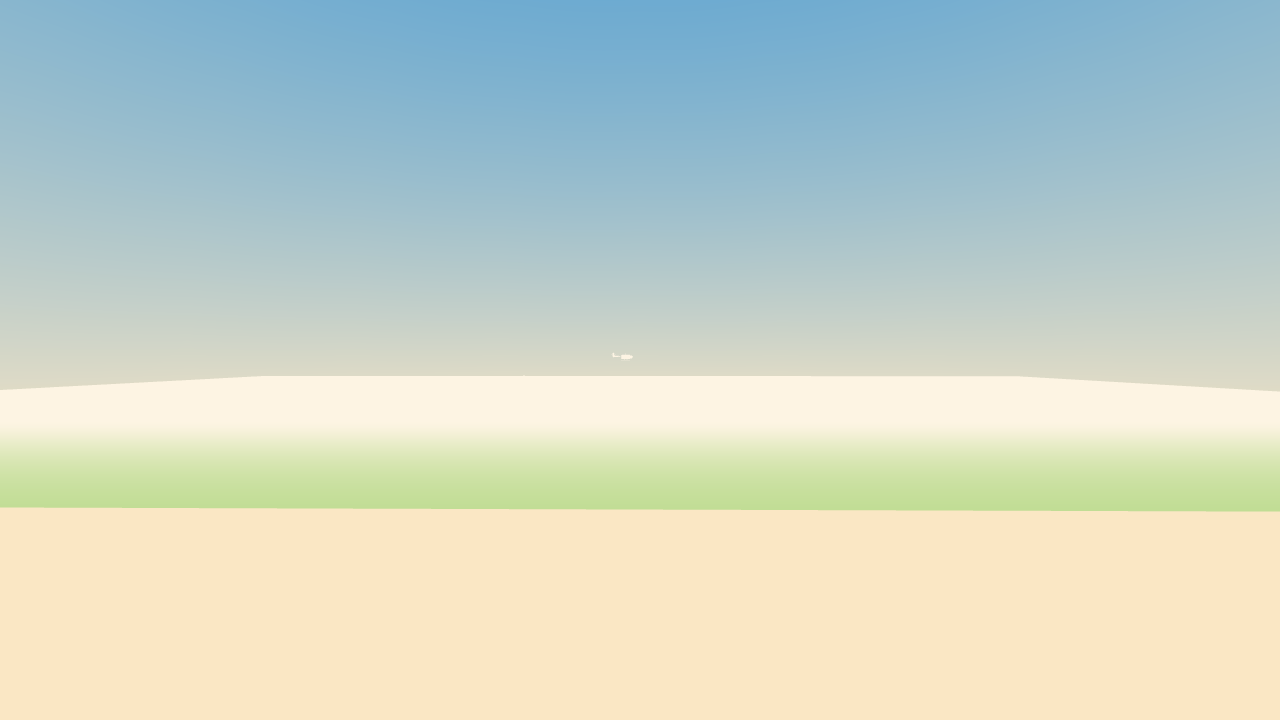
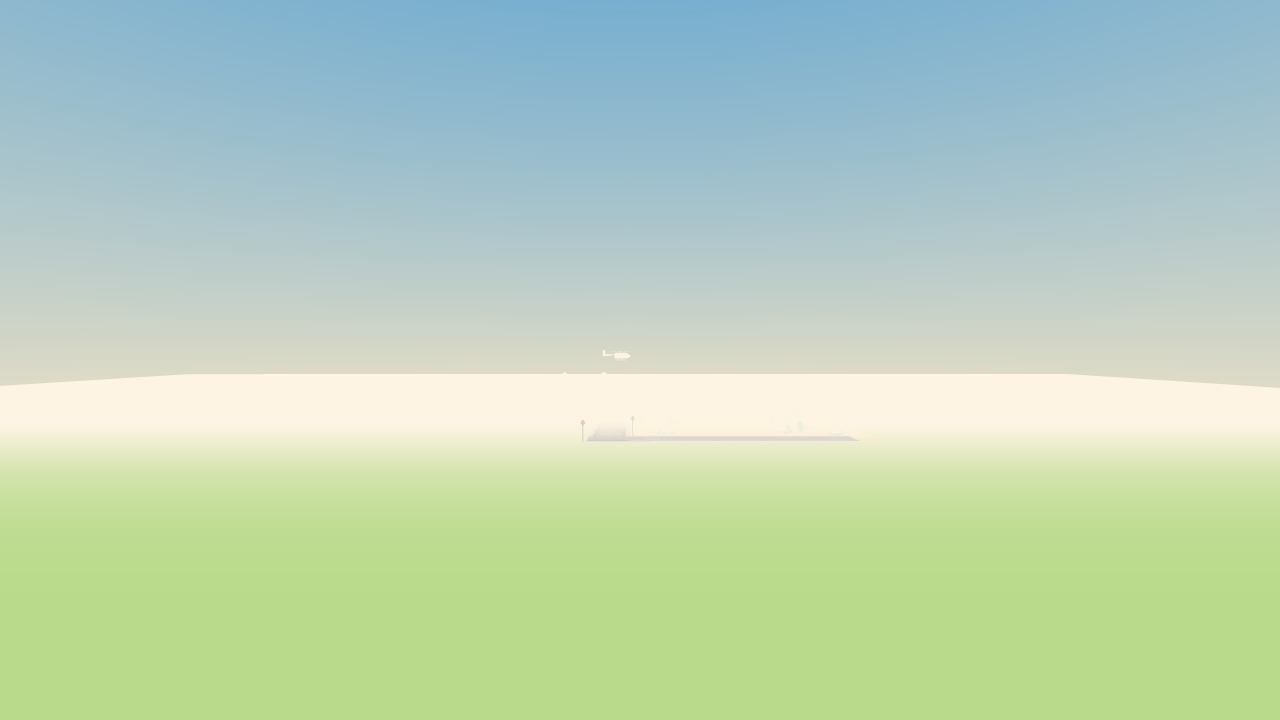
Multiple trains: 4 baked single-mesh trains on nearby rail corridors
Trains distribute over the nearest vertical/horizontal rail lines (and one
line out), each with its own shuttle phase and livery band. Each train is
merged into one mesh at boot (4 draw calls total).

Changed region(s): [[0.0, 0.7028, 1.0, 1.0], [0.7812, 0.5194, 1.0, 0.55], [0.0, 0.5194, 0.2188, 0.55]]

diff --git a/src/games/city/train.ts b/src/games/city/train.ts
@@ -1,39 +1,86 @@
-// The city train: shuttles back and forth along the nearest rail line,
-// driven purely by (time, player position) so it streams with the chunks.
+// The city trains: several trains shuttle along the rail corridors that cross
+// the world, driven purely by (time, player position) so they stream with the
+// chunks. Each train is baked into a single mesh (one draw call per train).
 import * as THREE from 'three';
+import { Baked } from '../../engine/baked.js';
 import { makeTrainCar, makeTrainLoco } from '../../kit/index.js';
 
 const SPEED = 0.15;  // shuttle angular speed (rad/s)
 const AMP = 40;      // shuttle amplitude around the player, in metres
+const BANDS = [0x63b0a8, 0xe25c5c, 0x7fb2d9, 0xf6c952];
 
-export class Train {
-  private group = new THREE.Group();
-  private dirLast = 1;
+function bakeGroup(baked: Baked, g: THREE.Object3D): void {
+  g.updateMatrixWorld(true);
+  g.traverse(node => {
+    if (!(node instanceof THREE.Mesh) || !node.geometry) return;
+    let geo = node.geometry.index ? node.geometry.toNonIndexed() : node.geometry.clone();
+    for (const name of Object.keys(geo.attributes)) {
+      if (name !== 'position' && name !== 'normal' && name !== 'uv') geo.deleteAttribute(name);
+    }
+    const mat = (Array.isArray(node.material) ? node.material[0] : node.material) as THREE.MeshLambertMaterial;
+    const col = mat && mat.color ? mat.color : new THREE.Color(0x888888);
+    const pos = geo.attributes.position as THREE.BufferAttribute;
+    const colors = new Float32Array(pos.count * 3);
+    for (let i = 0; i < pos.count; i++) {
+      colors[i * 3] = col.r;
+      colors[i * 3 + 1] = col.g;
+      colors[i * 3 + 2] = col.b;
+    }
+    geo.setAttribute('color', new THREE.BufferAttribute(colors, 3));
+    geo.applyMatrix4(node.matrixWorld);
+    baked.raw(geo);
+  });
+}
 
-  constructor(scene: THREE.Scene, private CH: number) {
-    const loco = makeTrainLoco();
-    const car1 = makeTrainCar();
-    const car2 = makeTrainCar({ color: 0xf0ece2, band: 0x63b0a8 });
-    loco.rotation.y = -Math.PI / 2; // train faces +X along the corridor
-    car1.rotation.y = -Math.PI / 2;
-    car2.rotation.y = -Math.PI / 2;
-    loco.position.x = 6.4;
-    car2.position.x = -6.4;
-    this.group.add(loco, car1, car2);
-    this.group.traverse(o => { if (o instanceof THREE.Mesh) o.castShadow = true; });
-    scene.add(this.group);
+function buildTrainMesh(band: number): THREE.Mesh {
+  const g = new THREE.Group();
+  const loco = makeTrainLoco();
+  const car1 = makeTrainCar({ color: 0xf0ece2, band });
+  const car2 = makeTrainCar({ color: 0xf0ece2, band });
+  const parts: Array<[THREE.Object3D, number]> = [[loco, 6.6], [car1, 0], [car2, -6.6]];
+  for (const [m, x] of parts) {
+    m.rotation.y = Math.PI / 2; // face +X along the corridor
+    m.position.x = x;
+    g.add(m);
+  }
+  const b = new Baked();
+  bakeGroup(b, g);
+  const mesh = b.build();
+  mesh.position.y = 0.15;
+  return mesh;
+}
+
+export class Trains {
+  private trains: Array<{ mesh: THREE.Mesh; index: number; phase: number; dirLast: number }> = [];
+
+  constructor(scene: THREE.Scene, private CH: number, count = 4) {
+    for (let i = 0; i < count; i++) {
+      const mesh = buildTrainMesh(BANDS[i % BANDS.length]);
+      scene.add(mesh);
+      this.trains.push({ mesh, index: i, phase: i * 1.7, dirLast: 1 });
+    }
   }
 
   update(elapsed: number, playerX: number, playerZ: number): void {
-    // nearest rail line (every 4th grid line) — switches far from the player,
-    // so the swap is never visible
-    const lineZ = Math.round(playerZ / (this.CH * 4)) * (this.CH * 4);
-    const x = playerX + Math.sin(elapsed * SPEED) * AMP;
-    const dir = Math.cos(elapsed * SPEED) >= 0 ? 1 : -1;
-    if (dir !== this.dirLast) {
-      this.group.rotation.y = dir > 0 ? 0 : Math.PI;
-      this.dirLast = dir;
+    const railStep = 4 * this.CH; // rail corridors every 4th grid line
+    for (const t of this.trains) {
+      const vertical = t.index % 2 === 0;
+      // spread trains over the nearest rail lines: 0 = nearest, 1 = one step out
+      const slotShift = t.index < 2 ? 0 : (t.index === 2 ? 1 : -1);
+      const perp = vertical ? playerZ : playerX;
+      const base = Math.round((perp / this.CH - 2) / 4) * 4 + 2;
+      const lineIdx = base + slotShift * 4;
+      const lineWorld = lineIdx * this.CH;
+
+      const off = Math.sin(elapsed * SPEED + t.phase) * AMP;
+      const dir = Math.cos(elapsed * SPEED + t.phase) >= 0 ? 1 : -1;
+      t.mesh.rotation.y = vertical ? (dir > 0 ? Math.PI / 2 : -Math.PI / 2)
+        : (dir > 0 ? 0 : Math.PI);
+      if (vertical) {
+        t.mesh.position.set(lineWorld, 0.15, playerZ + off);
+      } else {
+        t.mesh.position.set(playerX + off, 0.15, lineWorld);
+      }
     }
-    this.group.position.set(x, 0.15, lineZ);
   }
 }

diff --git a/src/games/city/index.ts b/src/games/city/index.ts
@@ -8,7 +8,7 @@ import { setupDevCapture } from '../../engine/capture.js';
 import { VEHICLES, createPlayer, physicsStep } from './player.js';
 import { ChunkManager } from './chunks.js';
 import { Traffic } from './traffic.js';
-import { Train } from './train.js';
+import { Trains } from './train.js';
 import { PatrolHeli } from './patrol.js';
 import { RoadGrid } from '../../worlds/roadGrid.js';
 import { Missions } from './missions.js';
@@ -131,9 +131,9 @@ if (q.get('spraytest') === '1') {
 // in heli mode one of the AI vehicles is the fire truck, driving itself
 const traffic = new Traffic(scene, roadGrid, 64, 8, V.fly ? ['/assets/kenney/firetruck.glb'] : []);
 
-// ---- ambient life: the train shuttles the rail line; a patrol heli circles
-// the neighbourhood while the kid plays the fire truck ----
-const train = new Train(scene, 64);
+// ---- ambient life: several trains on the rail corridors; a patrol heli
+// circles the neighbourhood while the kid plays the fire truck ----
+const trains = new Trains(scene, 64);
 const patrol = V.fly ? null : new PatrolHeli(scene);
 
 // ---- particles ----
@@ -276,8 +276,8 @@ const tick = (): void => {
 
   chunks.ensure(2, st.x, st.z);
 
-  // ambient life: the train and the patrol helicopter
-  train.update(elapsed, st.x, st.z);
+  // ambient life: the trains and the patrol helicopter
+  trains.update(elapsed, st.x, st.z);
   patrol?.update(dt, elapsed, st.x, st.z);
 
   // ambient life
